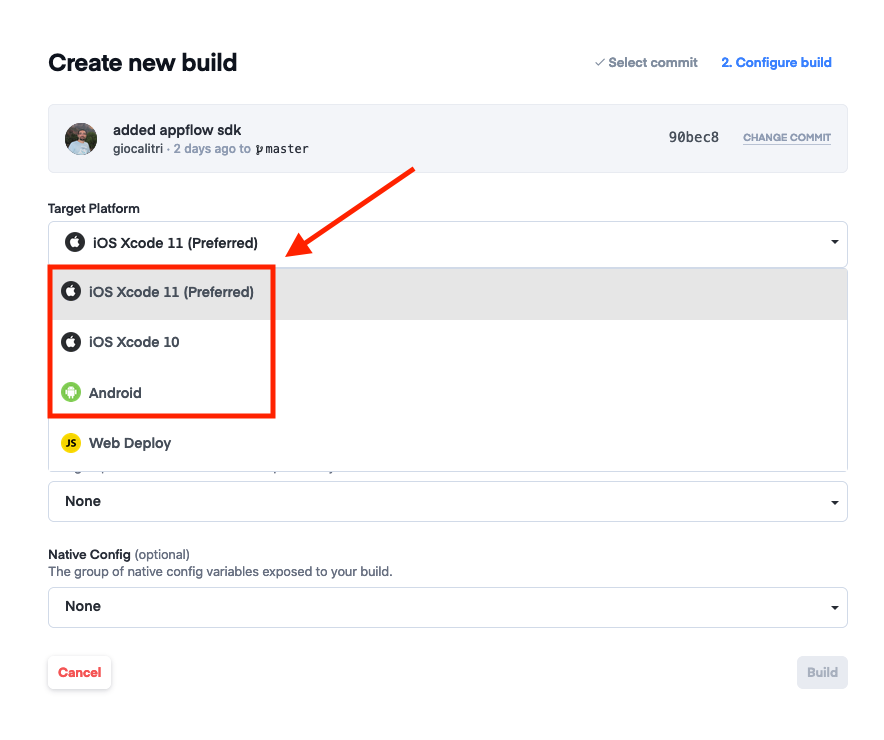
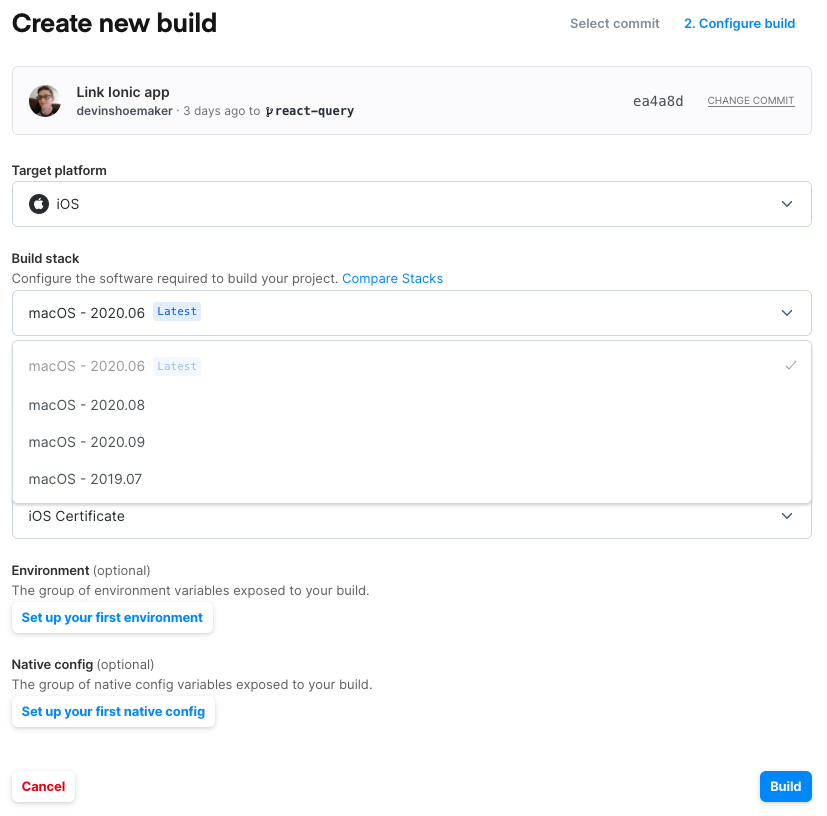
docs(appflow): rename --target-platform to --build-stack

diff --git a/src/pages/appflow/package/cli.md b/src/pages/appflow/package/cli.md
@@ -108,7 +108,7 @@ The Advanced Options available to customize the build include:
 
 * `--commit=<sha1>` The commit defaults to HEAD; to use a different commit you can use this option
 with the full SHA1 of the commit
-* `--target-platform=<name>` This option is mostly useful for iOS builds if for any reason a package build with a
+* `--build-stack=<name>` This option is mostly useful for iOS builds if for any reason a package build with a
 specific version of Xcode is needed. If this is omitted the preferred version is used.
 * `--build-file-name=<name>` To override the downloaded file name use this option. This might be useful, for instance, in in a CI
 build to have a consistent name for the produced artifact.
@@ -129,6 +129,6 @@ Look for the name on the signing certificate, Environments and Native Configs pa
 ![Environments](/docs/assets/img/appflow/cli-environments-list.png)
 ![Native Configs](/docs/assets/img/appflow/cli-native-config-list.png)
 
-For the Target Platform, use one of the strings identifying the platform in the Applflow Package Build form:
+For the build stack, use one of the strings identifying the platform in the Applflow Package Build form:
 
 ![Target Platform](/docs/assets/img/appflow/cli-target-platform.png)

diff --git a/src/pages/appflow/cookbook/integrate-ci.md b/src/pages/appflow/cookbook/integrate-ci.md
@@ -135,7 +135,7 @@ pipeline {
             }
           }
           steps {
-              sh 'ionic package build ios ad-hoc --environment="Jenkins" --native-config"=Jenkins" --signing-certificate="Jenkins" --target-platform="macOS - 2020.09" --build-file-name="Jenkins-$BUILD_ID.ipa"'
+              sh 'ionic package build ios ad-hoc --environment="Jenkins" --native-config"=Jenkins" --signing-certificate="Jenkins" --build-stack="macOS - 2020.09" --build-file-name="Jenkins-$BUILD_ID.ipa"'
           }
           post {
             success {
@@ -186,7 +186,7 @@ test:
 build-ios:
   stage: build
   script:
-    - ionic package build ios ad-hoc --environment="GitLab" --native-config"=GitLab" --signing-certificate="GitLab" --target-platform="macOS - 2020.09" --build-file-name="GitLab-$CI_PIPELINE_ID.ipa"
+    - ionic package build ios ad-hoc --environment="GitLab" --native-config"=GitLab" --signing-certificate="GitLab" --build-stack="macOS - 2020.09" --build-file-name="GitLab-$CI_PIPELINE_ID.ipa"
   artifacts:
     paths:
       - GitLab-$CI_PIPELINE_ID.ipa
